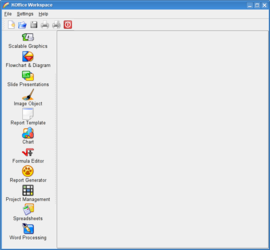
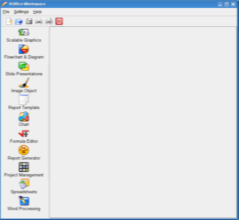
try fixing gallery
git-svn-id: svn+ssh://svn.kde.org/home/kde/trunk/www/areas/koffice@602907 283d02a7-25f6-0310-bc7c-ecb5cbfe19da

Changed region(s): [[0.0, 0.0, 1.0, 1.0], [0.1458, 0.4636, 0.175, 0.5182]]

diff --git a/koshell/screenshots.php b/koshell/screenshots.php
@@ -8,8 +8,8 @@
 
 <?php
 $gallery = new ImageGallery("KOffice Workspace Screenshots");
-$gallery->addImage("pics/start_2005_09_270.png", "pics/start_2005_09.png", "270", "250", "[Screenshot]", 0 , "KOffice Workspace at start");
-$gallery->addImage("pics/workspace_2005_09_270.png", "pics/workspace_2005_09.png", "270", "195", "[Screenshot]", 0 , "Karbon14 in KOffice Workspace");
+$gallery->addImage("pics/start_2005_09_270.png", "pics/start_2005_09.png", "240", "220", "[Screenshot]", 0 , "KOffice Workspace at start");
+$gallery->addImage("pics/workspace_2005_09_270.png", "pics/workspace_2005_09.png", "240", "220", "[Screenshot]", 0 , "Karbon14 in KOffice Workspace");
 $gallery->show();
 ?>
 
